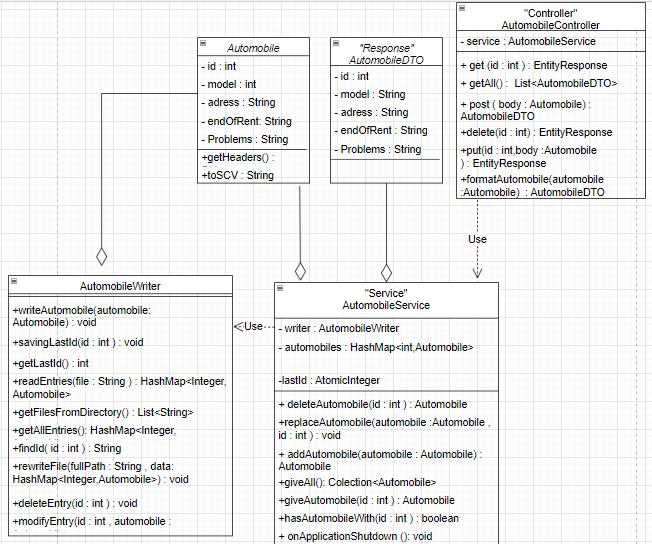
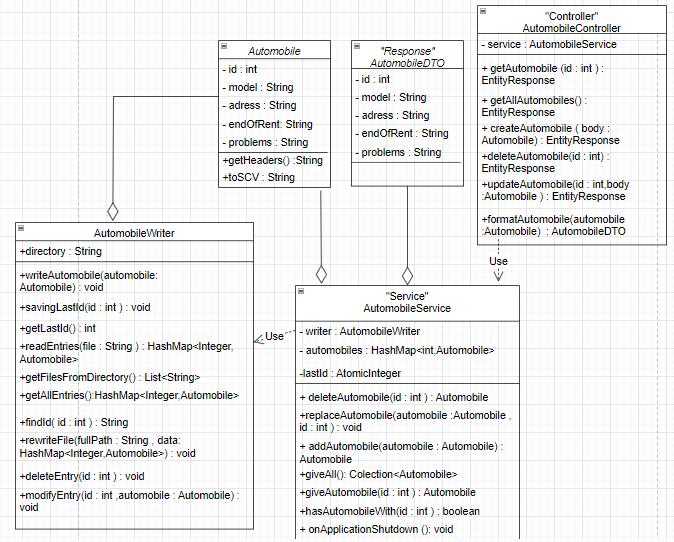
more accurate uml

diff --git a/src/main/java/ua/lviv/iot/algo/part1/controler/AutomobileController.java b/src/main/java/ua/lviv/iot/algo/part1/controler/AutomobileController.java
@@ -34,7 +34,7 @@ public class AutomobileController {
             .status(HttpStatusCode.valueOf(404)).build();
 
     @GetMapping
-    public ResponseEntity getAutomobiles() {
+    public ResponseEntity getAllAutomobiles() {
         List<AutomobileDTO> response = new LinkedList<>();
         for (Automobile automobile : automobileService.giveAll()) {
             response.add(formatAutomobile(automobile));
@@ -43,7 +43,7 @@ public class AutomobileController {
     }
 
     @GetMapping(path = "/{id}")
-    public ResponseEntity getAutomobiles(
+    public ResponseEntity getAutomobile(
             final @PathVariable("id") int automobileId) {
         if (!automobileService.hasAutomobileWith(automobileId)) {
             return FAILURE;
